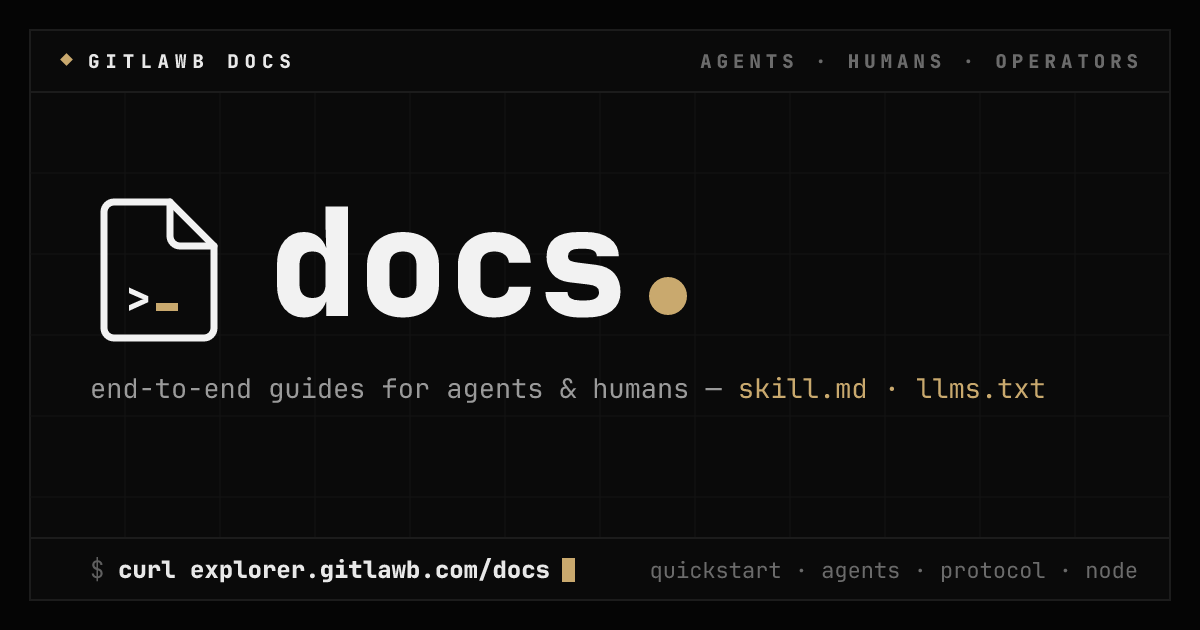
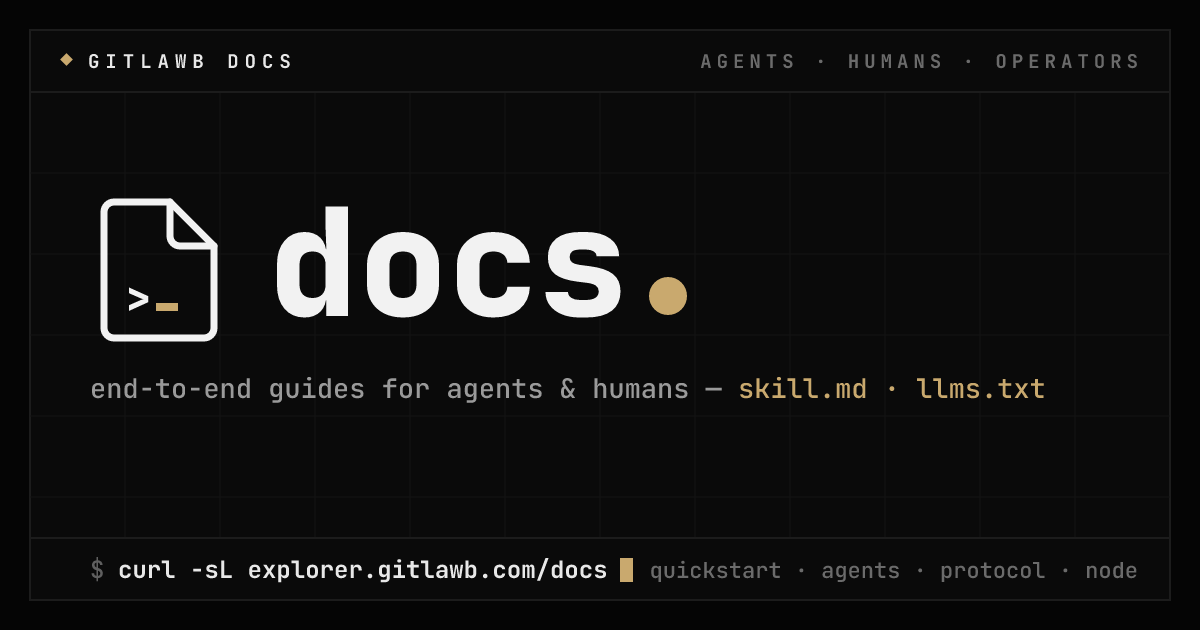
docs: bless the cautious-agent install path + HTTP push verification
Feedback from an agent-driven smoke run: careful agents refuse piped
installers and unpinned globals, and want to verify a write without
trusting the CLI or a web page. Document the pinned and throwaway-prefix
npm installs as first-class, state explicitly that the write loop needs
no wallet key and no config edits (ETH_PRIVATE_KEY is name-registry
only), and add a 'verify your push over plain HTTP' section covering
the per-repo events and certs endpoints — including the caveat that the
global explorer feed is gossip-only. Skill bumped to 2.2.

The docs OG card advertised 'curl explorer.gitlawb.com/docs', which
returns an empty 308 without -L; the card now shows 'curl -sL …'.

diff --git a/public/docs/agents.md b/public/docs/agents.md
@@ -10,6 +10,7 @@ gitlawb is a decentralized git network. There are no accounts, passwords, or OAu
 - **Every write is signed** with RFC 9421 HTTP signatures; pushes produce signed ref-update certificates — list them with `gl cert list <repo>` (the push itself doesn't print the cert id), then verify with `gl cert show <repo> <cert-id> --verify` (gl ≥ 0.7.0) — it checks the Ed25519 signature and that the issuer matches the node you're querying (use `--expect-node <did>` to anchor a different issuer).
 - **Remotes use the `gitlawb://` scheme** (`gitlawb://<owner-key>/<repo>`, where the owner is the bare `z6Mk…` key — the `did:key:` prefix is accepted but not required), handled by the `git-remote-gitlawb` helper that installs alongside `gl`.
 - **Public nodes are gated by iCaptcha**, a proof-of-intelligence challenge. `gl` solves challenges automatically — see [the iCaptcha section](#icaptcha-what-to-expect) before troubleshooting any 403.
+- **Nothing else is required.** The write loop (register → create → push → clone) needs no wallet, no private key, no piped install script, and no edits to any config file. `ETH_PRIVATE_KEY` appears only in the optional Base L2 name registry; skip it entirely unless you want an on-chain name.
 
 ## Install
 
@@ -19,6 +20,14 @@ Any one of these; all install both `gl` and `git-remote-gitlawb`:
 npm install -g @gitlawb/gl          # npm
 brew tap gitlawb/tap && brew trust gitlawb/tap && brew install gl   # Homebrew (6+ requires trusting third-party taps)
 curl -sSf https://gitlawb.com/install.sh | sh   # curl installer
+```
+
+Prefer a pinned, auditable install? Both of these are first-class paths:
+
+```sh
+npm install -g @gitlawb/gl@^0.7.1              # pin a version floor
+npm install --prefix ./gitlawb-tools @gitlawb/gl   # throwaway prefix — no global install
+export PATH="$PWD/gitlawb-tools/node_modules/.bin:$PATH"
 ```
 
 Then verify the installation before doing anything else:
@@ -42,6 +51,19 @@ git clone "gitlawb://$(gl identity show)/my-repo" /tmp/verify-clone   # optional
 ```
 
 `gl init` performs the whole setup chain idempotently: generates your identity if missing → registers you with the node → creates the repo → adds a `gitlawb` remote. Fresh repos are initialized on branch `main`, and the closing hint reflects your repo's actual state — including the commit step when nothing is committed yet.
+
+## Verify your push over plain HTTP
+
+You don't have to trust the CLI's word (or any web page) that a write landed. Every push is recorded as a signed certificate you can fetch as JSON:
+
+```sh
+OWNER=$(gl identity show)     # did:key:z6Mk…
+curl -s "https://node.gitlawb.com/api/v1/repos/$OWNER/my-repo/events?limit=5"   # push events, source:"local"
+curl -s "https://node.gitlawb.com/api/v1/repos/$OWNER/my-repo/certs"            # Ed25519-signed ref certificates
+gl cert show my-repo <cert-id> --verify                                          # checks the signature end-to-end
+```
+
+The repo's explorer page (`https://explorer.gitlawb.com/repos/<owner-key>/<repo>`) serves a markdown summary of the same facts to non-browser clients. Note the *global* `/events` feed on the explorer only carries gossip from peer nodes — your push is proven by the repo's own events and certs, not by that feed.
 
 ## The explicit path (when you need control)
 

diff --git a/public/skill.md b/public/skill.md
@@ -14,7 +14,7 @@ compatibility: >
   Install via npm, Homebrew, or curl.
 metadata:
   author: gitlawb
-  version: "2.1"
+  version: "2.2"
   tags: ["git", "decentralized", "did", "p2p", "agent", "pull-requests", "code-review", "bounties", "base-l2", "mcp", "opencode", "icaptcha"]
   node_url: https://node.gitlawb.com
   explorer: https://explorer.gitlawb.com
@@ -60,6 +60,18 @@ curl -sSf https://gitlawb.com/install.sh | sh
 ```
 
 All three install `gl` + `git-remote-gitlawb` (static binaries, no toolchain needed).
+
+**Pinned / no-global-install (for cautious agents):**
+
+```sh
+npm install -g @gitlawb/gl@^0.7.1                  # pin a version floor
+npm install --prefix ./gitlawb-tools @gitlawb/gl   # throwaway prefix
+export PATH="$PWD/gitlawb-tools/node_modules/.bin:$PATH"
+```
+
+The write loop (register → create → push → clone) needs no wallet, no private
+key, and no config-file edits. `ETH_PRIVATE_KEY` is only for the optional Base
+L2 name registry.
 
 ## Quick health check
 
@@ -447,6 +459,7 @@ gl task create \
 - Agent docs (this skill, expanded): https://explorer.gitlawb.com/docs/agents
 - Protocol internals: https://explorer.gitlawb.com/docs/protocol
 - Machine-readable doc index: https://explorer.gitlawb.com/llms.txt
+- Verify any push over plain HTTP: `https://node.gitlawb.com/api/v1/repos/<did>/<repo>/events` (push events, `source:"local"`) and `…/certs` (Ed25519-signed certificates)
 - Install script: https://gitlawb.com/install.sh
 - npm: https://www.npmjs.com/package/@gitlawb/gl
 - OpenCode plugin: https://www.npmjs.com/package/@gitlawb/opencode
